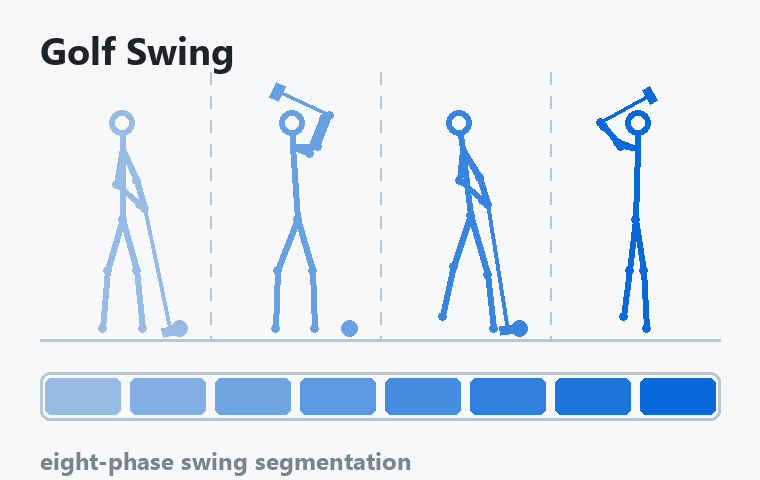
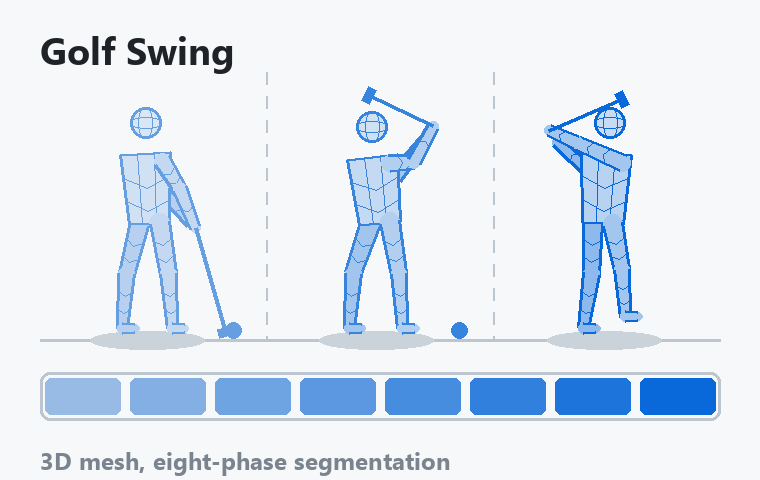
Draw the two Apollo dashboards as 3D mesh bodies, both ongoing
Both pipelines lift a single video to a body mesh, so their thumbnails are
drawn as shaded volumes under a wire grid instead of stick skeletons: a new
mesh_figure() takes the same pose dicts as skeleton() and derives the trunk
corners from the neck-pelvis axis. Golf drops to three keyframes, since a
fourth cell takes each body down to the size where the mesh becomes a blot,
and tennis gains the mesh viewer's orbit ring.

The tennis row now describes the Apollo tennis dashboard itself rather than
the earlier stroke-classification codebase, and is marked ongoing alongside
golf. Its code link is dropped with it: that repository is a different
codebase, and the dashboard's own is private.

Changed region(s): [[0.1211, 0.1562, 0.6961, 0.75], [0.6961, 0.1875, 0.8776, 0.75], [0.0303, 0.9375, 0.6053, 1.0]]

diff --git a/scripts/make_publication_thumbs.py b/scripts/make_publication_thumbs.py
@@ -240,6 +240,199 @@ def save(img, name):
 
 
 # --------------------------------------------------------------------------- #
+# 3D mesh body - used only by the two Apollo Sports dashboard thumbnails
+#
+# Both of those pipelines lift a single video to a body mesh, so their figures
+# are drawn as shaded volumes under a wire grid instead of as stick skeletons.
+# They still take the same pose dicts as skeleton(): the shoulder and hip
+# corners of the trunk are derived from the neck-pelvis axis, so nothing has to
+# be re-authored to switch a figure between the two styles.
+# --------------------------------------------------------------------------- #
+
+# Half-widths across the body at each joint. These are given on the *height*
+# scale, like the head radius in skeleton(), and converted through bh - a cell
+# is much narrower than it is tall, so widths taken off bw would give a fat body
+# in the wide layouts and a snake in the phase grids. The numbers are ordinary
+# human proportions: shoulders a quarter of standing height, an upper arm a
+# twelfth of it.
+MESH_R = dict(neck=13.0, pelvis=10.5, shoulder=4.2, elbow=3.4, wrist=2.6,
+              hip=5.0, knee=4.0, ankle=2.6, foot=2.2)
+
+# How far out along the shoulder / hip line each limb hangs from the spine.
+# Both are set so that the joint plus the limb's own radius still falls inside
+# the trunk: a cap that pokes out past the silhouette has no wire on it, and
+# reads as a bare lump stuck to the shoulder on any pose whose arm crosses the
+# body instead of leaving it.
+MESH_ATTACH = dict(shoulder=8.5, hip=5.2)
+
+
+def _pale(colour, t):
+    """A fill for a volume: t=0 is the page background, t=1 the wire colour."""
+    return lerp(BG, colour, t)
+
+
+def mesh_limb(d, p0, p1, r0, r1, fill, wire, lw, rings=2):
+    """One tapered segment - a filled volume, rounded ends, rings across it.
+
+    The rings bow toward the far end rather than being drawn straight across.
+    Straight cross-lines read as a ladder; a bowed one reads as a band round
+    something round, which is the whole point of drawing a mesh and not a bone.
+    """
+    dx, dy = p1[0] - p0[0], p1[1] - p0[1]
+    length = math.hypot(dx, dy) or 1
+    ux, uy = dx / length, dy / length
+    nx, ny = -uy, ux
+
+    edge_a = [(p0[0] + nx * r0, p0[1] + ny * r0), (p1[0] + nx * r1, p1[1] + ny * r1)]
+    edge_b = [(p0[0] - nx * r0, p0[1] - ny * r0), (p1[0] - nx * r1, p1[1] - ny * r1)]
+    d.polygon(edge_a + edge_b[::-1], fill=fill)
+    # rounded ends, so two consecutive segments meet without a notch at the joint
+    for (cx, cy), r in ((p0, r0), (p1, r1)):
+        d.ellipse([cx - r, cy - r, cx + r, cy + r], fill=fill)
+
+    thin = max(1, int(lw * 0.6))
+    d.line(edge_a, fill=wire, width=lw)
+    d.line(edge_b, fill=wire, width=lw)
+    for i in range(1, rings + 1):
+        t = i / (rings + 1)
+        cx, cy = p0[0] + dx * t, p0[1] + dy * t
+        r = r0 + (r1 - r0) * t
+        d.line([(cx + nx * r, cy + ny * r),
+                (cx + ux * r * 0.6, cy + uy * r * 0.6),
+                (cx - nx * r, cy - ny * r)], fill=wire, width=thin, joint="curve")
+
+
+def mesh_trunk(d, neck, pelvis, r_top, r_bot, fill, wire, lw, rows=3, cols=3):
+    """The torso as a quad from the shoulder line to the hip line, gridded."""
+    dx, dy = pelvis[0] - neck[0], pelvis[1] - neck[1]
+    length = math.hypot(dx, dy) or 1
+    ux, uy = dx / length, dy / length
+    nx, ny = -uy, ux
+
+    sl = (neck[0] + nx * r_top, neck[1] + ny * r_top)
+    sr = (neck[0] - nx * r_top, neck[1] - ny * r_top)
+    hl = (pelvis[0] + nx * r_bot, pelvis[1] + ny * r_bot)
+    hr = (pelvis[0] - nx * r_bot, pelvis[1] - ny * r_bot)
+
+    def P(u, v):
+        top = (sl[0] + (sr[0] - sl[0]) * u, sl[1] + (sr[1] - sl[1]) * u)
+        bot = (hl[0] + (hr[0] - hl[0]) * u, hl[1] + (hr[1] - hl[1]) * u)
+        return (top[0] + (bot[0] - top[0]) * v, top[1] + (bot[1] - top[1]) * v)
+
+    d.polygon([sl, sr, hr, hl], fill=fill)
+    thin = max(1, int(lw * 0.6))
+    for i in range(1, rows):
+        v = i / rows
+        mid = P(0.5, v)
+        d.line([P(0, v), (mid[0] + ux * r_top * 0.45, mid[1] + uy * r_top * 0.45),
+                P(1, v)], fill=wire, width=thin, joint="curve")
+    for i in range(1, cols):
+        u = i / cols
+        d.line([P(u, 0), P(u, 1)], fill=wire, width=thin)
+    d.line([sl, sr], fill=wire, width=lw)
+    d.line([hl, hr], fill=wire, width=lw)
+    d.line([sl, hl], fill=wire, width=lw)
+    d.line([sr, hr], fill=wire, width=lw)
+
+
+def mesh_head(d, centre, r, fill, wire, lw):
+    """A head as a small sphere: two wire circles inside the silhouette."""
+    cx, cy = centre
+    d.ellipse([cx - r, cy - r, cx + r, cy + r], fill=fill, outline=wire, width=lw)
+    # Below roughly 13 canvas px the two inner circles stop reading as latitude
+    # and longitude and just fill the head in, so they are dropped instead.
+    if r > 6.5 * S:
+        thin = max(1, int(lw * 0.6))
+        d.ellipse([cx - r * 0.44, cy - r, cx + r * 0.44, cy + r],
+                  outline=wire, width=thin)
+        d.ellipse([cx - r, cy - r * 0.36, cx + r, cy + r * 0.36],
+                  outline=wire, width=thin)
+
+
+def mesh_figure(d, pose, ox, oy, bw, bh, colour, scale=1.0, head_r=8.0,
+                facing=1, shadow_at=None):
+    """Draw a pose as a shaded body mesh. Returns the local->canvas mapper.
+
+    The trail side is drawn first in a darker fill, then the trunk over it, then
+    the lead side: opaque fills do the occlusion, which is what makes the body
+    read as one solid volume rather than as a wireframe of everything at once.
+    """
+    def pt(joint):
+        x, y = pose[joint]
+        return (ox + x / LOCAL_W * bw, oy + y / LOCAL_H * bh)
+
+    def r(key):
+        return MESH_R[key] / LOCAL_H * bh * scale
+
+    lw = max(2, int(1.8 * S))
+    neck, pelvis = pt("neck"), pt("pelvis")
+    tdx, tdy = pelvis[0] - neck[0], pelvis[1] - neck[1]
+    tl = math.hypot(tdx, tdy) or 1
+    tnx, tny = -tdy / tl, tdx / tl  # points to screen left on an upright figure
+
+    def attach(base, key, side):
+        w = MESH_ATTACH[key] / LOCAL_H * bh * scale * (1 if side == "l" else -1)
+        # Shoulders are tucked a little way down the spine. Level with the
+        # shoulder line, the rounded cap of the upper arm stands above it and
+        # reads as a shoulder pad rather than as a deltoid.
+        along = 0.12 * tl if key == "shoulder" else 0.0
+        return (base[0] + tnx * w + tdx / tl * along,
+                base[1] + tny * w + tdy / tl * along)
+
+    if shadow_at is not None:
+        ax = (pt("ankle_l")[0] + pt("ankle_r")[0]) / 2
+        sx, sy = bw * 0.30, 4.5 * S
+        d.ellipse([ax - sx, shadow_at - sy, ax + sx, shadow_at + sy],
+                  fill=lerp(BG, GROUND, 0.75))
+
+    def side_limbs(side, fill):
+        sh = attach(neck, "shoulder", side)
+        hip = attach(pelvis, "hip", side)
+        mesh_limb(d, sh, pt("elbow_" + side), r("shoulder"), r("elbow"),
+                  fill, colour, lw)
+        mesh_limb(d, pt("elbow_" + side), pt("wrist_" + side), r("elbow"),
+                  r("wrist"), fill, colour, lw, rings=1)
+        mesh_limb(d, hip, pt("knee_" + side), r("hip"), r("knee"), fill, colour, lw)
+        ankle = pt("ankle_" + side)
+        mesh_limb(d, pt("knee_" + side), ankle, r("knee"), r("ankle"),
+                  fill, colour, lw)
+        mesh_limb(d, ankle, (ankle[0] + facing * r("ankle") * 2.4, ankle[1]),
+                  r("ankle"), r("foot"), fill, colour, lw, rings=0)
+
+    # Three tones, darkest at the back. The near side is deliberately a shade
+    # darker than the trunk as well: a golf finish or a forehand swings the near
+    # arm right across the chest, and drawn in the trunk's own tone it merges
+    # into it and takes the trunk's outline with it.
+    side_limbs("l", _pale(colour, 0.44))
+    mesh_trunk(d, neck, pelvis, r("neck"), r("pelvis"),
+               _pale(colour, 0.26), colour, lw)
+    mesh_head(d, pt("head"), head_r / LOCAL_H * bh, _pale(colour, 0.20),
+              colour, lw)
+    side_limbs("r", _pale(colour, 0.35))
+    return pt
+
+
+def orbit(d, centre, rx, ry, colour, width):
+    """A ring under the figure with an arrow head running down its right side.
+
+    Stands in for the dashboard's orbit control: a mesh you can turn is the one
+    claim a still frame of a 3D reconstruction cannot make on its own. Drawn as
+    a continuous outline rather than a dotted one - dotted, it dissolves into a
+    few grey specks by the time the thumbnail is down to 190px.
+    """
+    cx, cy = centre
+    d.ellipse([cx - rx, cy - ry, cx + rx, cy + ry],
+              outline=colour, width=max(2, int(width)))
+    # The head goes at the right extreme, where the tangent to a ground-plane
+    # ellipse is vertical, so pointing it straight down runs along the ring. It
+    # is kept off the near arc: there the ring passes under the feet, and an
+    # arrow head landing on them reads as a dropped object.
+    hx, hy = cx + rx, cy
+    d.polygon([(hx, hy + 10 * S), (hx - 5.5 * S, hy - 2 * S),
+               (hx + 5.5 * S, hy - 2 * S)], fill=colour)
+
+
+# --------------------------------------------------------------------------- #
 # 1. Throwing4 - four phases of a throw
 # --------------------------------------------------------------------------- #
 
@@ -672,41 +865,44 @@ def umpire():
 
 
 # --------------------------------------------------------------------------- #
-# 10. Golf - four keyframes of a swing over the eight-phase segmentation
+# 10. Golf - three mesh keyframes over the eight-phase segmentation
 # --------------------------------------------------------------------------- #
 
-# address, top of backswing, impact, finish. Face-on view, target to the right.
-# A golf grip is both hands on one shaft, so the two wrists sit almost on top of
-# each other and the club comes out of the right one. The hands are kept out to
-# the side of the body rather than over it: drawn down the centre line, the two
-# arms and the torso close into a diamond that reads as a shape, not as arms.
+# Address, top of the backswing, finish. Face-on view, target to the right.
+#
+# Three frames, not four: these are bodies rather than sticks, and a fourth cell
+# takes each one down to about 60px on the rendered thumbnail, where the mesh
+# collapses into a blot. The three chosen are the three that stay distinct at
+# that size - address and impact differ mostly in the hips and the trail heel,
+# which is exactly the detail that disappears first.
+#
+# A golf grip is both hands on one shaft, so the wrists nearly coincide and the
+# club comes out of the trail hand. The hands stay well outside the trunk: with
+# a solid body, an arm drawn over the chest is simply swallowed by it.
 GOLF_POSES = [
-    # address - square and level, club soled behind the ball
-    dict(head=(48, 20), neck=(48, 34), pelvis=(48, 70),
-         elbow_r=(58, 50), wrist_r=(64, 64), elbow_l=(44, 52), wrist_l=(60, 62),
-         knee_r=(58, 96), ankle_r=(62, 126), knee_l=(38, 96), ankle_l=(34, 126)),
-    # top of the backswing - hands above the trail shoulder
-    dict(head=(48, 20), neck=(48, 32), pelvis=(52, 70),
-         elbow_r=(66, 32), wrist_r=(74, 16), elbow_l=(60, 36), wrist_l=(70, 18),
-         knee_r=(62, 96), ankle_r=(64, 126), knee_l=(38, 96), ankle_l=(36, 126)),
-    # impact - hips driven at the target, lead leg posted straight, trail heel up
-    dict(head=(46, 20), neck=(48, 34), pelvis=(54, 68),
-         elbow_r=(60, 48), wrist_r=(66, 62), elbow_l=(46, 50), wrist_l=(62, 60),
-         knee_r=(66, 98), ankle_r=(70, 126), knee_l=(42, 94), ankle_l=(34, 120)),
-    # finish - fully through, weight on the lead leg, trail foot up on its toe
-    dict(head=(52, 20), neck=(52, 34), pelvis=(50, 70),
-         elbow_r=(38, 30), wrist_r=(26, 20), elbow_l=(40, 32), wrist_l=(28, 22),
-         knee_r=(56, 96), ankle_r=(58, 126), knee_l=(46, 96), ankle_l=(42, 120)),
+    # address - square and level, hands low and forward, club soled at the ball
+    dict(head=(46, 20), neck=(46, 36), pelvis=(48, 72),
+         elbow_r=(64, 54), wrist_r=(72, 74), elbow_l=(56, 56), wrist_l=(70, 72),
+         knee_r=(58, 98), ankle_r=(60, 126), knee_l=(36, 98), ankle_l=(34, 126)),
+    # top of the backswing - hands high above the trail shoulder, torso coiled
+    dict(head=(46, 22), neck=(46, 38), pelvis=(50, 72),
+         elbow_r=(68, 40), wrist_r=(78, 22), elbow_l=(58, 48), wrist_l=(76, 26),
+         knee_r=(60, 98), ankle_r=(62, 126), knee_l=(36, 98), ankle_l=(34, 126)),
+    # finish - turned through onto the lead leg, trail foot up on its toe. The
+    # two arms fold into a V at the hands; drawn level they merge with the
+    # shoulder line into one horizontal slab across the top of the body.
+    dict(head=(52, 20), neck=(50, 36), pelvis=(48, 72),
+         elbow_r=(34, 30), wrist_r=(20, 24), elbow_l=(42, 46), wrist_l=(24, 30),
+         knee_r=(58, 96), ankle_r=(60, 120), knee_l=(42, 98), ankle_l=(38, 126)),
 ]
 
 # Where the club head sits in each pose, in the same local box as the joints.
-# Frames 0 and 2 put it on the ball, out to the right and well clear of the
-# legs; 1 and 3 swing it up past the shoulder, above the head circle rather
-# than through it.
-GOLF_SHAFT = [(82, 128), (38, 4), (80, 127), (60, 6)]
+# Frame 0 puts it on the ball, out to the right and clear of the legs; 1 and 2
+# swing it up past the shoulder, above the head rather than through it.
+GOLF_SHAFT = [(88, 128), (44, 6), (58, 8)]
 
 # On the ground at address and at the top, gone once the ball has been struck.
-BALL_AT = (88, 126)
+BALL_AT = (92, 127)
 
 
 def golf():
@@ -717,14 +913,19 @@ def golf():
     box_h = baseline - pad_top
 
     for i, pose in enumerate(GOLF_POSES):
-        colour = lerp(FADE, INK, i / (len(GOLF_POSES) - 1))
+        # The fade starts a third of the way along rather than at FADE itself: a
+        # mesh body is mostly pale fill, so a figure outlined in FADE all but
+        # disappears once the thumbnail is scaled down to 190px.
+        t = i / (len(GOLF_POSES) - 1)
+        colour = lerp(FADE, INK, 0.35 + 0.65 * t)
         ox = pad_x + cell * i + cell * 0.08
         bw = cell * 0.84
 
         def local(lx, ly, ox=ox, bw=bw):
             return (ox + lx / LOCAL_W * bw, pad_top + ly / LOCAL_H * box_h)
 
-        pt = skeleton(d, pose, ox, pad_top, bw, box_h, colour)
+        pt = mesh_figure(d, pose, ox, pad_top, bw, box_h, colour,
+                         shadow_at=baseline)
 
         # shaft out of the hands, with the head as a short thick stroke square
         # to it - that reads as a club head whichever way the shaft points.
@@ -737,7 +938,7 @@ def golf():
                 (tip[0] + nx * 4 * S, tip[1] + ny * 4 * S)],
                fill=colour, width=max(4, int(5 * S)))
 
-        if i < 3:
+        if i < 2:
             bx, by = local(*BALL_AT)
             br = 4 * S
             d.ellipse([bx - br, by - br, bx + br, by + br], fill=colour)
@@ -748,7 +949,7 @@ def golf():
                 for i in range(n)]
     timeline(d, pad_x, W - pad_x, ty, th, segments, ticks=False)
 
-    chrome(d, "Golf Swing", "eight-phase swing segmentation", baseline,
+    chrome(d, "Golf Swing", "3D mesh, eight-phase segmentation", baseline,
            caption_y=ty + th + 12 * S)
     return img
 
@@ -757,11 +958,13 @@ def golf():
 # 11. Tennis - a stroke at contact, and the strokes found in the rally
 # --------------------------------------------------------------------------- #
 
-# forehand at contact: the racket arm extended out in front, weight forward
-TENNIS_POSE = dict(head=(46, 24), neck=(48, 38), pelvis=(50, 74),
-                   elbow_r=(64, 46), wrist_r=(78, 38), elbow_l=(34, 50),
-                   wrist_l=(26, 62), knee_r=(64, 98), ankle_r=(72, 126),
-                   knee_l=(36, 98), ankle_l=(28, 126))
+# Forehand at contact: racket arm extended out in front, weight forward, stance
+# wide. Both arms are thrown clear of the trunk - the body is a solid volume
+# here, so anything drawn across the chest is occluded by it.
+TENNIS_POSE = dict(head=(44, 22), neck=(44, 38), pelvis=(46, 74),
+                   elbow_r=(64, 46), wrist_r=(80, 36), elbow_l=(28, 50),
+                   wrist_l=(18, 62), knee_r=(62, 98), ankle_r=(70, 126),
+                   knee_l=(32, 98), ankle_l=(24, 126))
 
 
 def racket(d, hand, angle_deg, reach, colour):
@@ -815,11 +1018,22 @@ def tennis():
     pad_top = 42 * S
     baseline = 170 * S
     box_h = baseline - pad_top
+    # 97 local units wide against 132 tall over the same box makes one unit of x
+    # the same number of pixels as one unit of y, so the body is not stretched.
+    bw = 97 * S
 
     d.line([(20 * S, baseline), (W - 20 * S, baseline)],
            fill=GROUND, width=max(2, int(1.5 * S)))
 
-    pt = skeleton(d, TENNIS_POSE, 30 * S, pad_top, 150 * S, box_h, INK)
+    # the mesh viewer's orbit ring, drawn as a ground-plane circle in
+    # perspective: centred on the baseline, so its near arc dips below it
+    # ry is held to 14 so the near arc clears the timeline track below, which is
+    # drawn afterwards and would otherwise slice the ring in half
+    orbit(d, (30 * S + bw * 0.46, baseline - 1 * S), bw * 0.54, 14 * S,
+          lerp(GROUND, MUTED, 0.45), 2 * S)
+
+    pt = mesh_figure(d, TENNIS_POSE, 30 * S, pad_top, bw, box_h, INK,
+                     shadow_at=baseline)
     bed = racket(d, pt("wrist_r"), 22, 42 * S, INK)
 
     net(d, 268 * S, baseline, 32 * S, 62 * S, MUTED)
@@ -839,8 +1053,8 @@ def tennis():
              ((0.04, 0.22, INK), (0.34, 0.52, mid), (0.66, 0.90, FADE)),
              ticks=False)
 
-    chrome(d, "Tennis Strokes", "stroke segmentation from tracked pose", baseline,
-           caption_y=ty + th + 12 * S)
+    chrome(d, "Tennis Strokes", "orbitable 3D mesh, stroke phase metrics",
+           baseline, caption_y=ty + th + 12 * S)
     return img
 
 

diff --git a/_projects/2026-06-01-apollo-tennis-dashboard.md b/_projects/2026-06-01-apollo-tennis-dashboard.md
@@ -1,19 +1,21 @@
 ---
-title: "Tennis Stroke Recognition and Motion Analytics Dashboard"
+title: "Apollo Tennis Dashboard: Monocular Stroke Biomechanics and 3D Mesh"
 collection: projects
 org: "Internship, Apollo Sports"
-period: "Jun 2026 – Aug 2026"
+period: "Jun 2026 – Present"
+status: "Ongoing"
 date: 2026-06-01
 thumb: '/images/tennis-strokes.png'
-summary: "Built a single tennis-video pipeline that selects and tracks one player, extracts 2D pose frame by frame, classifies pose windows as forehand, backhand, serve or neutral, groups the frame predictions into stroke segments, and derives motion features and side-by-side explanation videos for qualitative review."
+summary: "Built a single-camera tennis pipeline that reads 133 body keypoints per frame behind a compulsory kinematic-plausibility filter, finds and classifies each stroke, splits the serve into four phases, and reports twelve biomechanical measurements in metres, degrees and milliseconds by scaling pixels with the player's real height — alongside a 3D body mesh the coach can orbit in the browser."
 highlights:
-  - "Merged two earlier codebases into one workflow covering both supervised training and evaluation on annotated matches and end-to-end inference on unseen video, with racket tracking and rendered prediction overlays."
-  - "Benchmarked four classifiers (random forest, linear SVM, logistic regression, LSTM) on held-out matches; the selected random forest reached <strong>97.2% frame accuracy</strong>, with the accompanying report documenting the class-imbalance limits of the current split."
+  - "Shipped a per-player dashboard — synchronised video views, an orbitable 3D mesh, phase sheets, a radar chart and a 0–100 serve score — published as a static bundle behind CloudFront with Origin Access Control, so the storage bucket itself stays private."
+  - "Stroke detection reaches <strong>88.2%</strong> against hand-labelled frames; the mesh payload was cut to <strong>2.1–2.9 MB per serve</strong> as gzipped int16 temporal deltas, so the 3D viewer loads over a phone connection."
+  - "Established what one camera cannot recover: four arm configurations fit the same frame to within a pixel, so five rotation metrics are declared unavailable and three radar spokes are left visibly empty rather than filled with a number the system cannot defend."
 tags:
-  - Player Tracking
+  - Monocular Biomechanics
   - Pose Estimation
-  - Stroke Classification
-  - Random Forest
-  - LSTM
-codeurl: 'https://github.com/Bikudebug/tennis_action_recognisation'
+  - Stroke Segmentation
+  - 3D Mesh Reconstruction
+  - Sports Dashboard
+  - AWS
 ---
